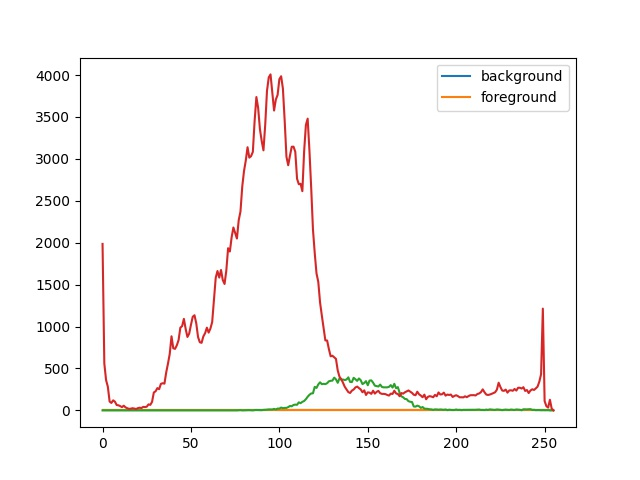
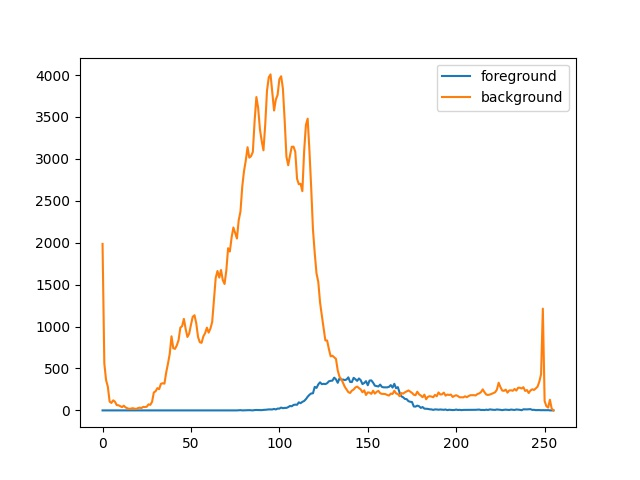
updated plots

diff --git a/MleProposed.py b/MleProposed.py
@@ -107,13 +107,15 @@ if __name__ == "__main__":
 
         mask = image[1]
         mask_comp = 255 - mask
+        fig1, ax1 = plt.subplots()
 
         histogram_fore = cv.calcHist([image[0]], [0], mask, [256], [1, 256])
         histogram_back = cv.calcHist([image[0]], [0], mask_comp, [256], [1, 256])
         
-        plt.plot(histogram_fore)
-        plt.plot(histogram_back)
-        plt.savefig("output_image/proposed/histogram_"+names[i])
+        ax1.plot(histogram_fore, label='foreground')
+        ax1.plot(histogram_back, label='background')
+        ax1.legend()
+        fig1.savefig("output_image/proposed/histogram_"+names[i])
  
     print("Specificity : ", str(np.mean(specificity)*100))
     print("Sensitivity : ", str(np.mean(sensitivity)*100))

diff --git a/MleClassical.py b/MleClassical.py
@@ -50,12 +50,14 @@ if __name__ == "__main__":
     specificity = []
     sensitivity = []
 
+    fig, ax = plt.subplots()
+    fp.plotModel(ax)
+    figs.append(fig)
+    fig.savefig(f'./output_image/classical/plots/plot.jpg')
+
     for i, image in enumerate([image for image in images]):
         outputImage = fp.segmentImage(image[0])
-        fig, ax = plt.subplots()
-        fp.plotModel(ax)
-        figs.append(fig)
-        fig.savefig(f'./output_image/classical/plots/{names[i]}')
+        
         # print(image[0].shape)
         # print(outputImage.shape)
         dn = (outputImage == 0)
